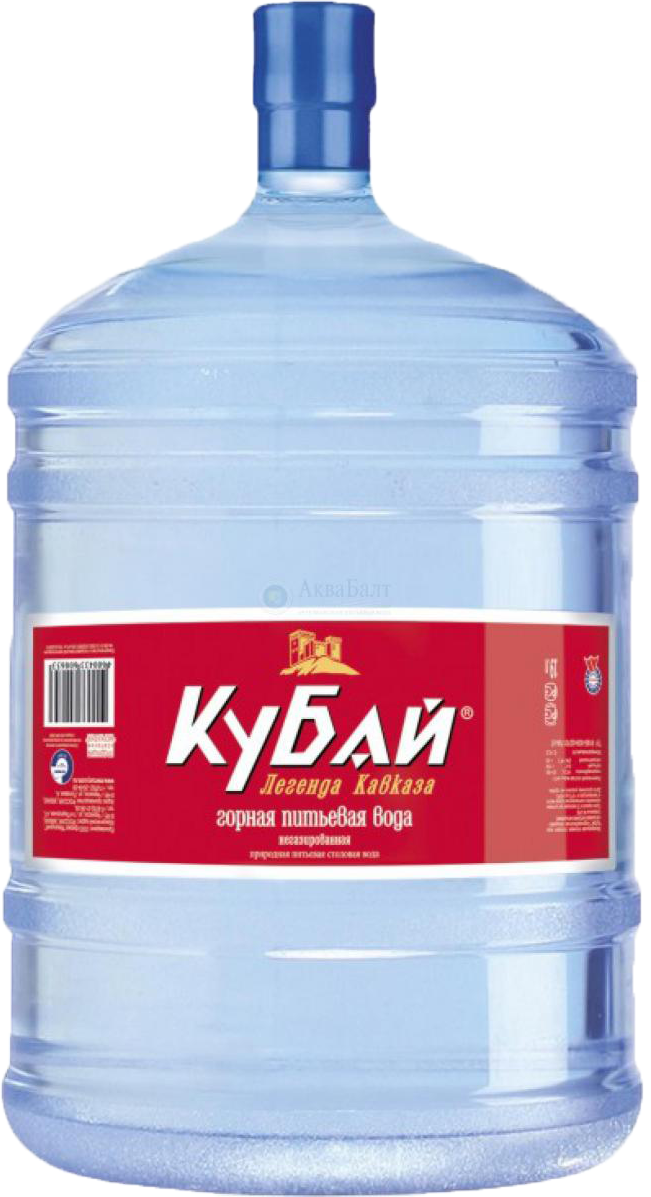
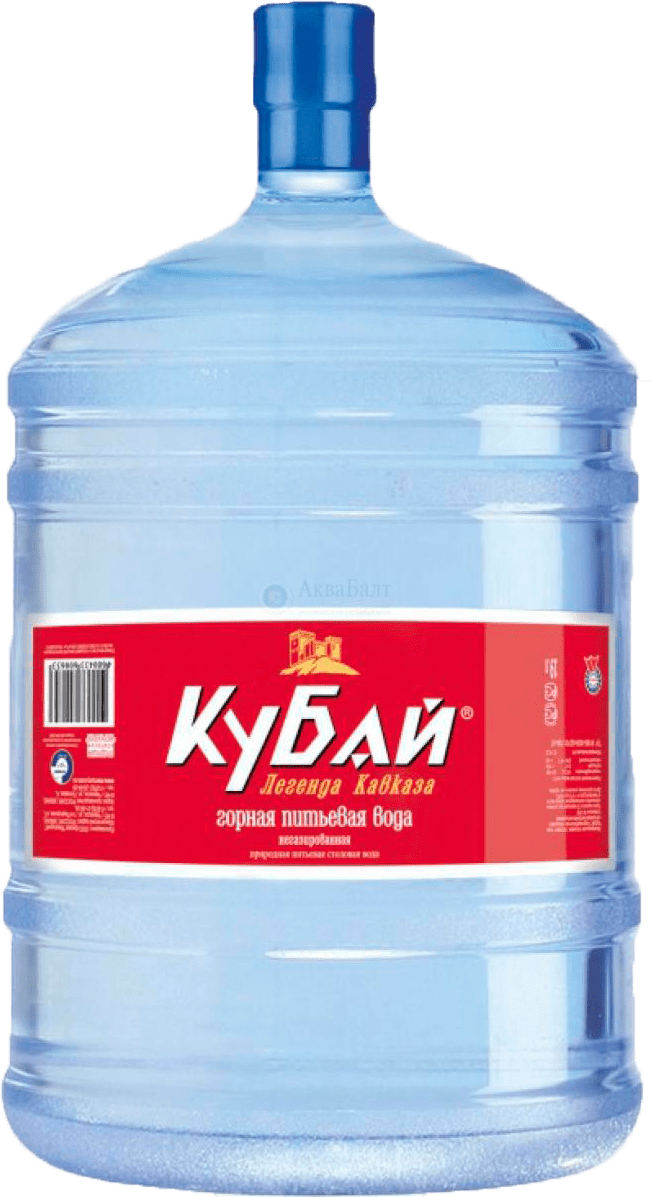
Compressed images, bugs fixes

diff --git a/src/css/style.css b/src/css/style.css
@@ -336,6 +336,11 @@ a {
 
 
 
+@media (min-width: 2000px) {
+  .contacts {
+    padding-bottom: 560px;
+  }
+}
 
 @media (max-width: 1100px) {
   .content {
@@ -347,10 +352,59 @@ a {
   .content {
     width: 480px;
   }
+  .space-between-row {
+    flex-direction: column;
+  }
+  .space-between-row>div {
+    margin-bottom: 50px;
+  }
+  .space-around-row {
+    flex-direction: column;
+    align-items: center;
+  }
+  .space-around-row p,
+  .space-around-row img {
+    margin-bottom: 20px;
+  }
 }
 
 @media (max-width: 480px) {
   .content {
-    width: 320px;
+    width: 310px;
+  }
+  .logo-text {
+    font-size: 14px;
+  }
+  .header__tel-title {
+    font-size: 14px;
+  }
+  .header__tel-num {
+    font-size: 12px;
+  }
+  .header-social {
+    flex-direction: row;
+    left: 42%;
+    right: auto;
+    top: auto;
+    bottom: -30%;
+  }
+  .header-social>div {
+    margin-right: 20px;
+  }
+  .main-header {
+    max-width: 100vw;
+    box-shadow: none;
+  }
+  .hidden-fixed-bg {
+    max-width: 100vw;
+  }
+  .cool-pomps img {
+    max-width: 100vw;
+  }
+  .main-footer .space-between-row {
+    flex-direction: row;
+  }
+  .contacts {
+    padding-bottom: 60px;
   }
 }

diff --git a/src/index.html b/src/index.html
@@ -97,7 +97,7 @@
           <p class="text-reg-16">
             Цена: 190р
           </p>
-          <img class="water-types__image" src="./images/piligrim-btl.png" alt="Вода_Кубай">
+          <img class="water-types__image" src="./images/piligrim-btl.png" alt="Вода_Пилигрим">
         </div>
 
         <div class="water-types__item">
@@ -107,7 +107,7 @@
           <p class="text-reg-16">
             Цена: 120р
           </p>
-          <img class="water-types__image" src="./images/empty-btl.png" alt="Вода_Кубай">
+          <img class="water-types__image" src="./images/wiz-btl.png" alt="Вода_Волшебница">
         </div>
 
         <div class="water-types__item">
@@ -117,7 +117,7 @@
           <p class="text-reg-16">
             Цена: 200р
           </p>
-          <img class="water-types__image" src="./images/empty-btl.png" alt="Вода_Кубай">
+          <img class="water-types__image" src="./images/empty-btl.png" alt="Пустая_Бутыль">
         </div>
 
       </div>
